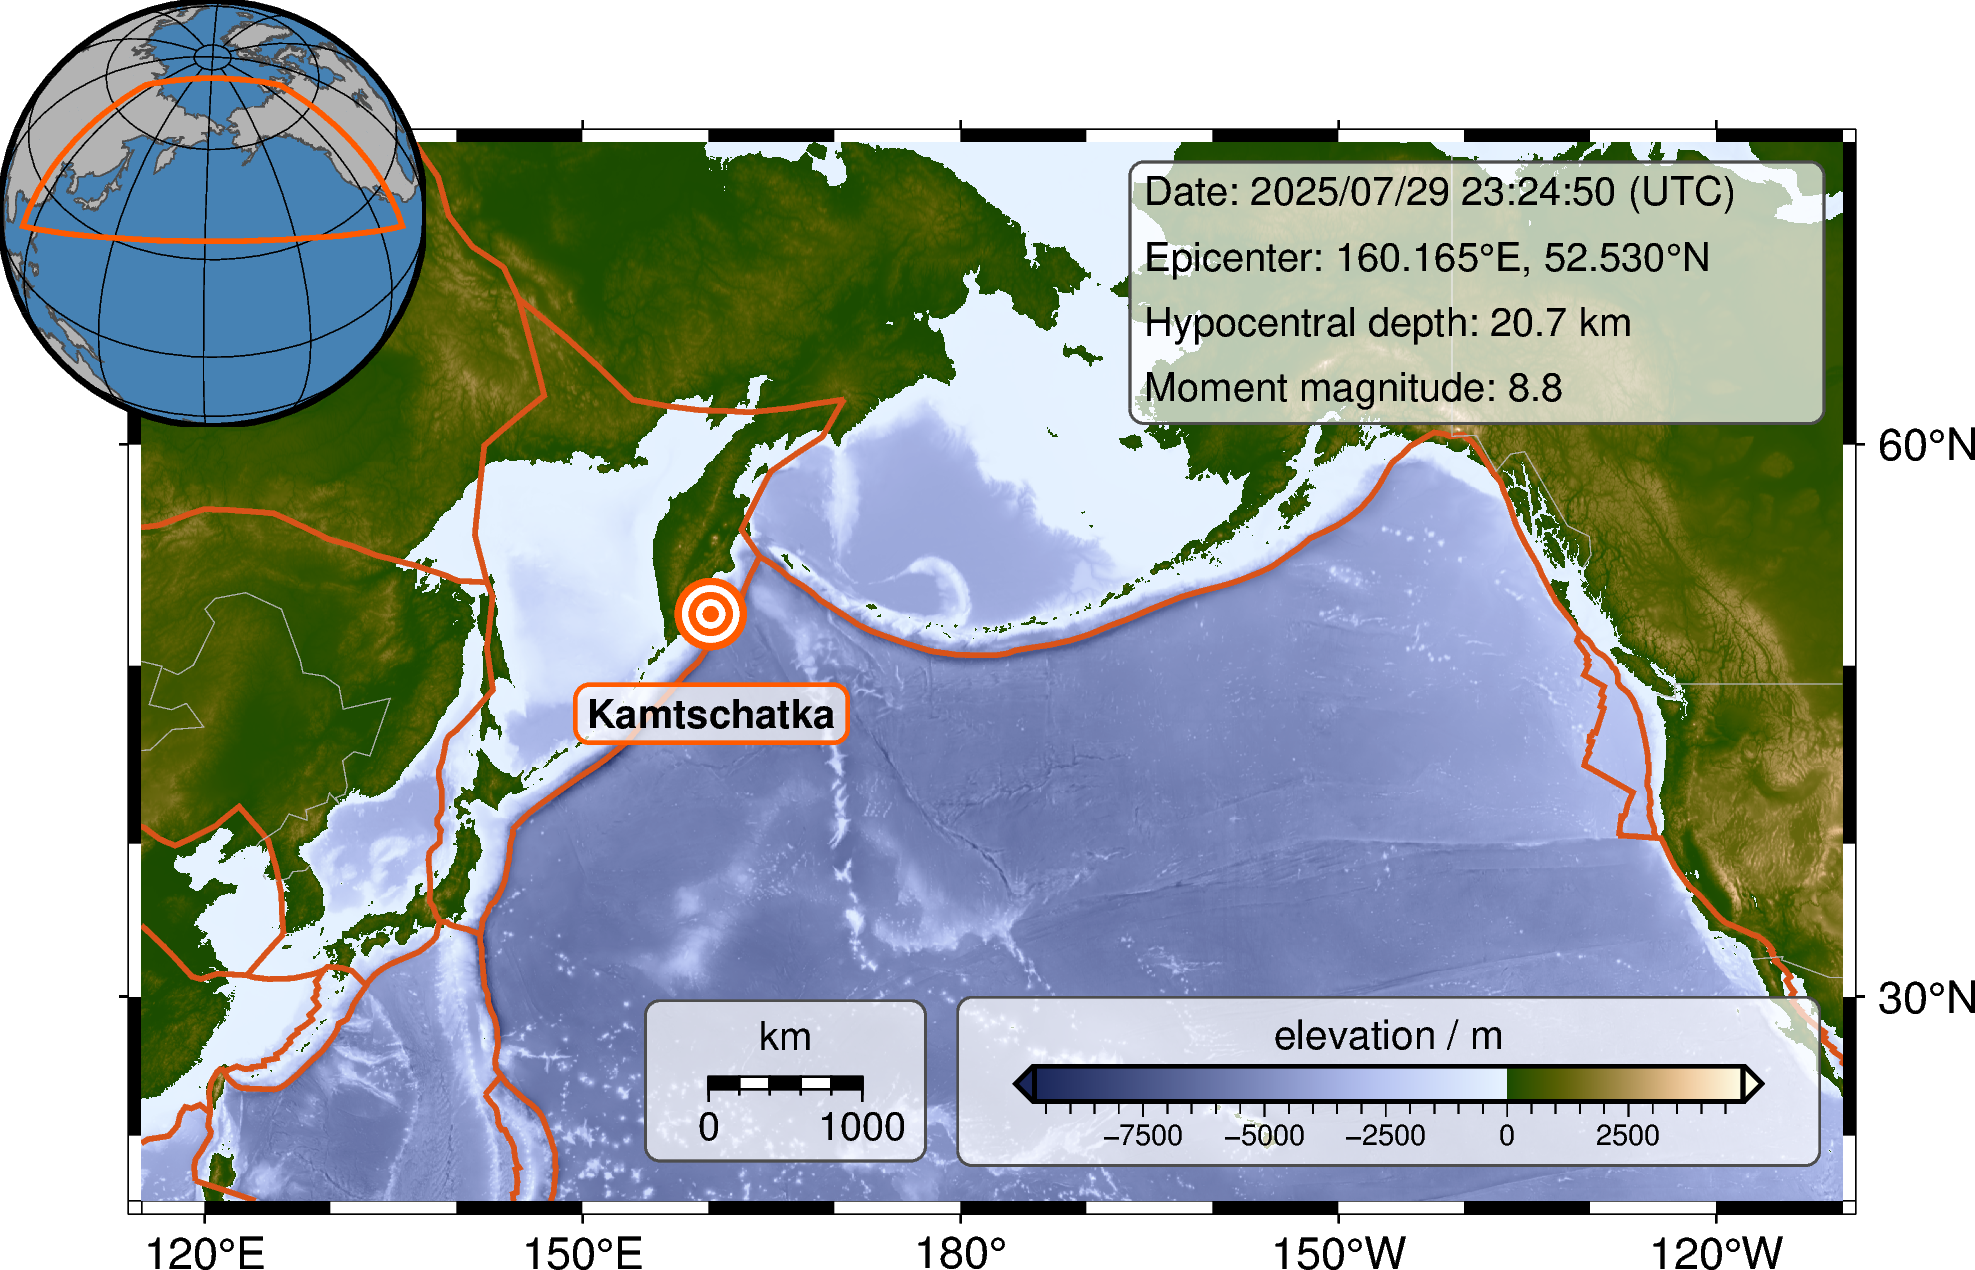
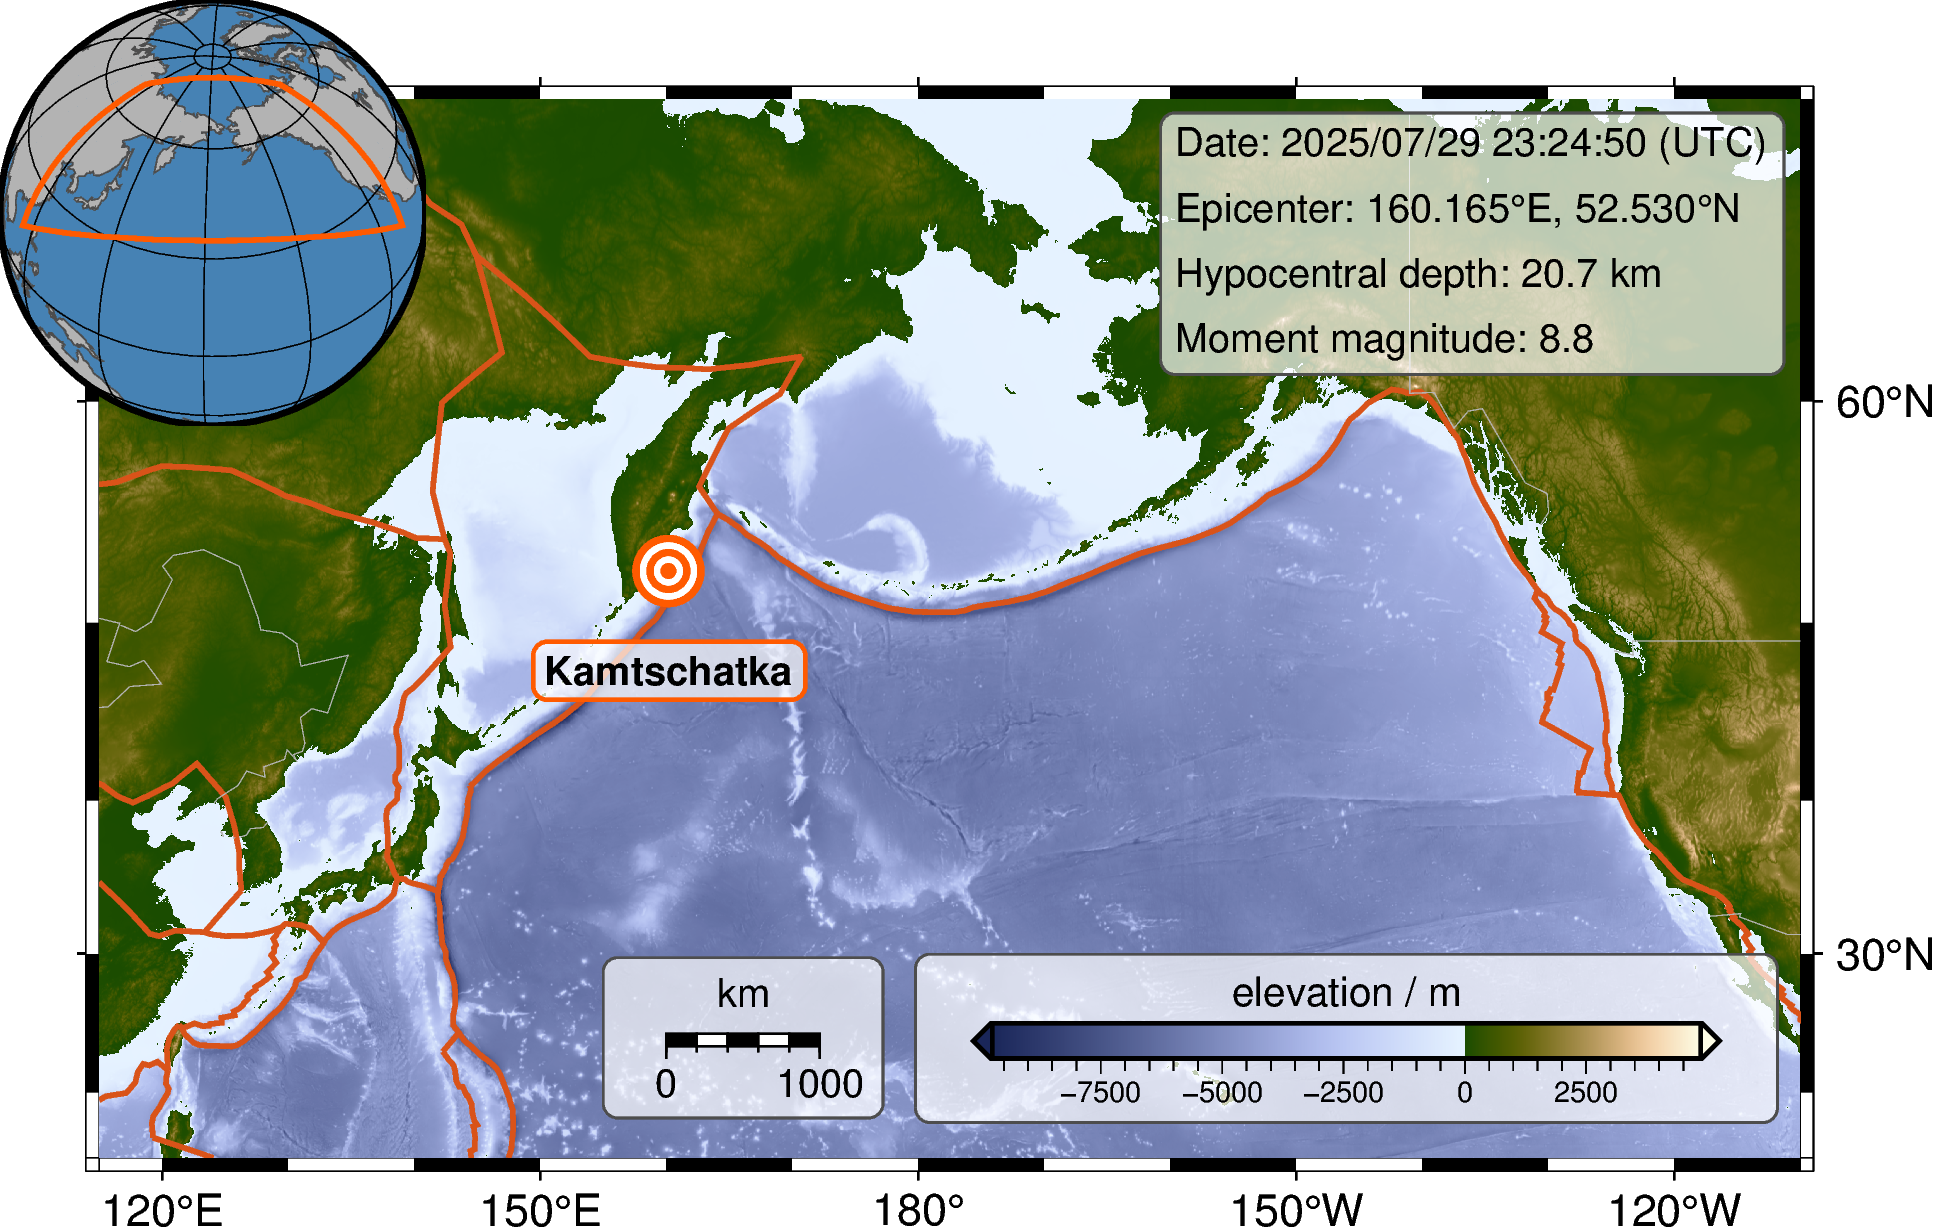
Add zoom regin, adjust position of text box

diff --git a/004_earthquakes_eruptions/09_kamtschatka_earthquake.py b/004_earthquakes_eruptions/09_kamtschatka_earthquake.py
@@ -39,9 +39,15 @@ file_pb = "plate_boundaries_Bird_2003.txt"
 
 # -----------------------------------------------------------------------------
 # Define region and projections
+# Zoom around Kamtschatka
+lon_min = 150  # degrees East
+lon_max = 180
+lat_min = 45   # degrees North
+lat_max = 60
+# With east coast of US
 lon_min = 115  # degrees East
 lon_max = 250
-lat_min = 15 # degrees North
+lat_min = 15   # degrees North
 lat_max = 70
 region = [lon_min, lon_max, lat_min, lat_max]
 center_str = f"{(lon_max + lon_min) / 2}/{(lat_max + lat_min) / 2}"
@@ -67,7 +73,7 @@ color_highlight = "255/90/0"  # -> orange
 # Stuff for scale, legends, colorbars, and insets
 basemap_scale = f"JLB+jLB+w1000+c{center_str}+f+lkm+at+o4c/0.7c"
 
-pos_study_inset = "jTL+w3c+o-1c"
+pos_study_inset = "jTL+w3c+o-0.7c"
 
 pos_cb_grid = "JRB+jRB+w5c/0.25c+h+ml+o0.7c+e"
 frame_cb_grid = "xa2500f500+lelevation / m"
@@ -186,8 +192,6 @@ with fig.inset(position=pos_study_inset):
 # -----------------------------------------------------------------------------
 # Show and save figure
 fig.show()
-
 # for ext in ["png"]:  # , "pdf", "eps"]:
 #     fig.savefig(fname=f"{path_out}/{fig_name}.{ext}", dpi=dpi_png)
-
 print(fig_name)
